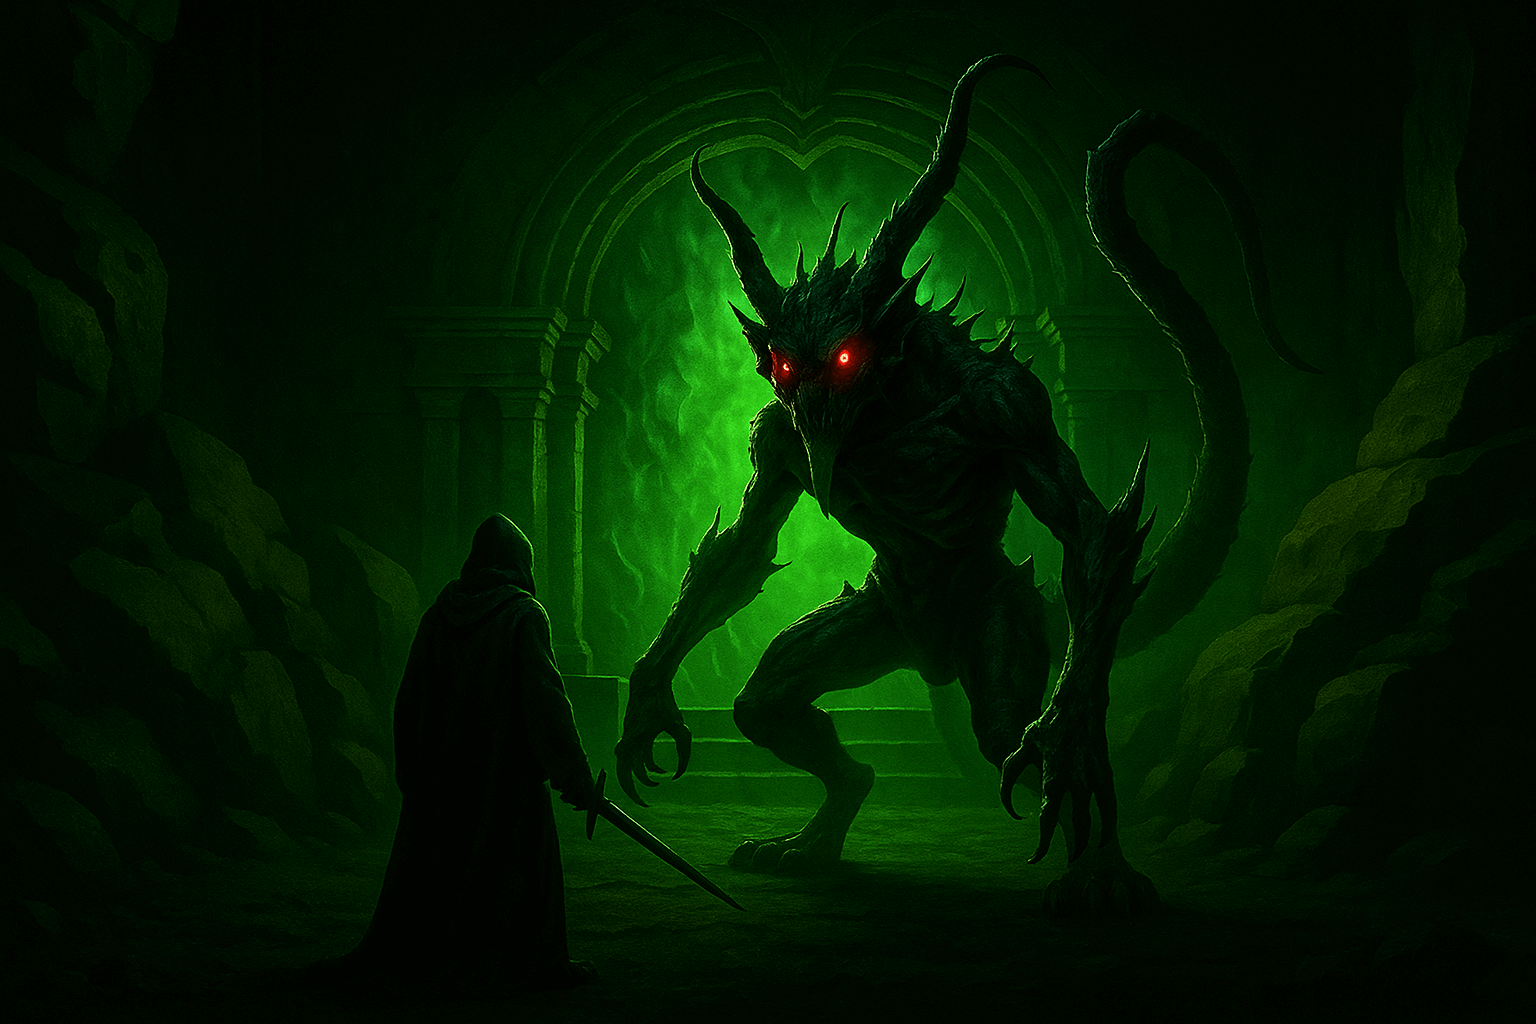
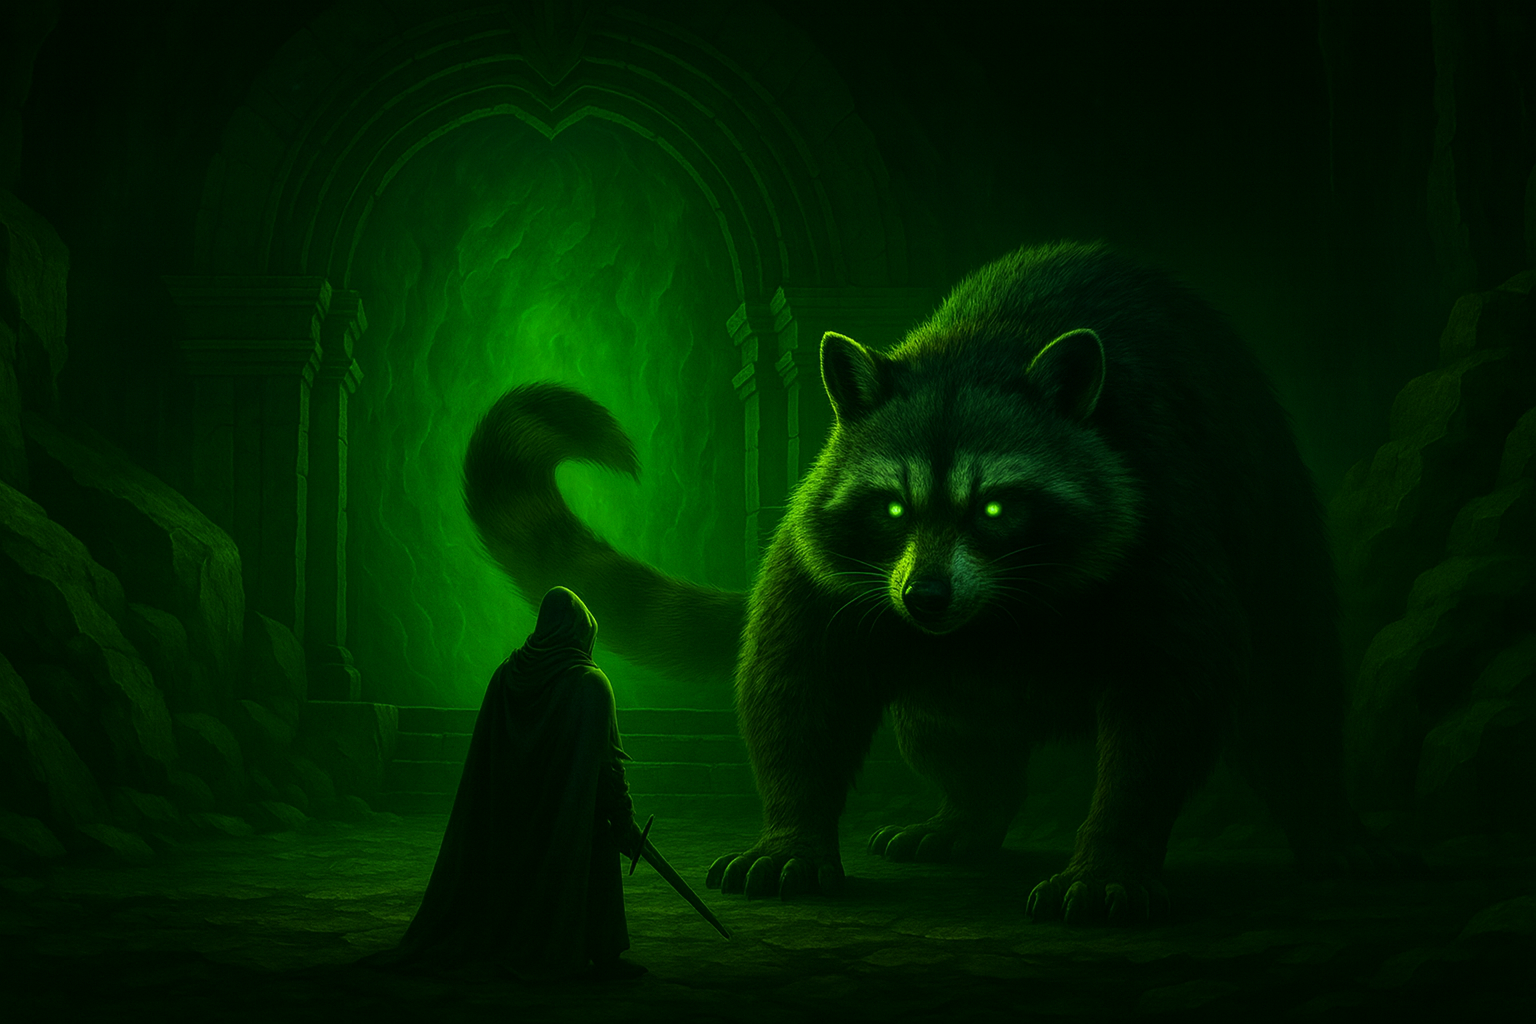
add docs and update nue

diff --git a/client/src/desktop/overlays/MainMenu.tsx b/client/src/desktop/overlays/MainMenu.tsx
@@ -24,6 +24,7 @@ import Network from '../components/Network';
 import PriceIndicator from '../../components/PriceIndicator';
 import WalletConnect from '../components/WalletConnect';
 import StatisticsModal from './StatisticsModal';
+import MenuBookIcon from '@mui/icons-material/MenuBook';
 
 export default function MainMenu() {
   const navigate = useNavigate();
@@ -154,6 +155,9 @@ export default function MainMenu() {
                     Provable Games
                   </Typography>
                   <Box sx={styles.socialButtons}>
+                    <IconButton size="small" sx={styles.socialButton} onClick={() => window.open('https://docs.provable.games/lootsurvivor', '_blank')}>
+                      <MenuBookIcon sx={{ fontSize: 20 }} />
+                    </IconButton>
                     <IconButton size="small" sx={styles.socialButton} onClick={() => window.open('https://x.com/LootSurvivor', '_blank')}>
                       <XIcon sx={{ fontSize: 20 }} />
                     </IconButton>

diff --git a/client/src/mobile/components/HeaderMenu.tsx b/client/src/mobile/components/HeaderMenu.tsx
@@ -18,6 +18,7 @@ import ComputerIcon from "@mui/icons-material/Computer";
 import { useSound } from "@/contexts/Sound";
 import { useUIStore } from "@/stores/uiStore";
 import { isDesktop } from "react-device-detect";
+import MenuBookIcon from "@mui/icons-material/MenuBook";
 
 interface HeaderMenuProps {
   anchorEl: HTMLElement | null;
@@ -138,6 +139,15 @@ function HeaderMenu({ anchorEl, handleClose }: HeaderMenuProps) {
       )}
 
       <Divider sx={{ my: 1, borderColor: "rgba(255, 255, 255, 0.1)" }} />
+
+      <MenuItem onClick={() => { window.open("https://docs.provable.games/lootsurvivor", "_blank"); handleClose(); }}>
+        <ListItemIcon>
+          <MenuBookIcon fontSize="small" sx={{ color: "#80FF00" }} />
+        </ListItemIcon>
+        <ListItemText>
+          <Typography variant="h6">Docs</Typography>
+        </ListItemText>
+      </MenuItem>
 
       <MenuItem onClick={() => { window.open("https://discord.gg/DQa4z9jXnY", "_blank"); handleClose(); }}>
         <ListItemIcon>

diff --git a/client/src/desktop/overlays/Settings.tsx b/client/src/desktop/overlays/Settings.tsx
@@ -148,7 +148,7 @@ export default function SettingsOverlay() {
                   <IconButton
                     size="small"
                     sx={styles.socialButton}
-                    onClick={() => window.open('https://docs-git-feat-ls2-provable-games.vercel.app/lootsurvivor', '_blank')}
+                    onClick={() => window.open('https://docs.provable.games/lootsurvivor', '_blank')}
                   >
                     <MenuBookIcon sx={{ fontSize: 24, color: '#d0c98d' }} />
                   </IconButton>

diff --git a/client/src/utils/cloudflare.ts b/client/src/utils/cloudflare.ts
@@ -44,7 +44,7 @@ export const streamIds = {
   "Minotaur": "7893d71ba16e1a542ef348f6592718f3",
   "Qilin": "a02fb1280925f5de19fdc64efed8682f",
   "Ammit": "05989d5140166220b0e475060b767387",
-  "Nue": "3baa32db715cf73941b4facde600ea2a",
+  "Nue": "c7850f43c93139aedbe36c719644d0d3",
   "Skinwalker": "398ebe3dcd710cae085d89248e6888d8",
   "Chupacabra": "27c6519e9a74df648bcdf062d5a8f610",
   "Weretiger": "b1d916c4c09c4ea2ee4d58a7fb8e9891",
